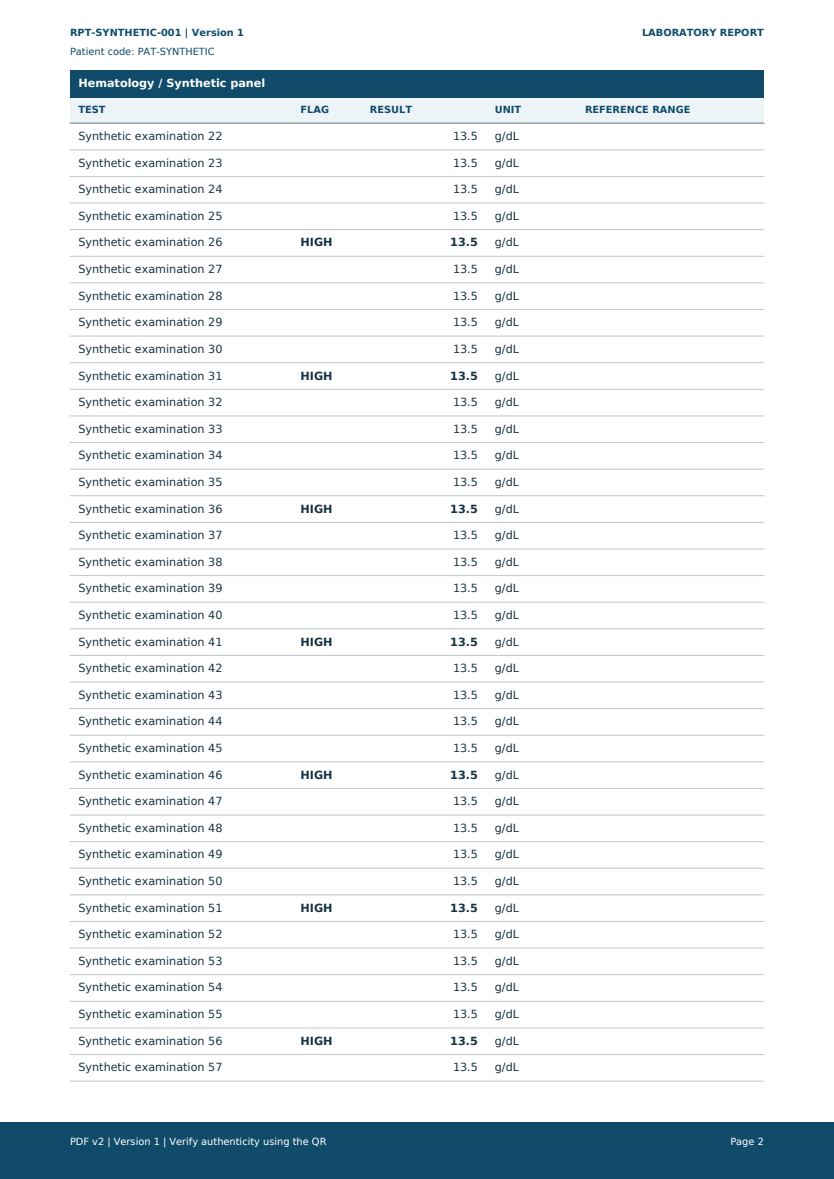
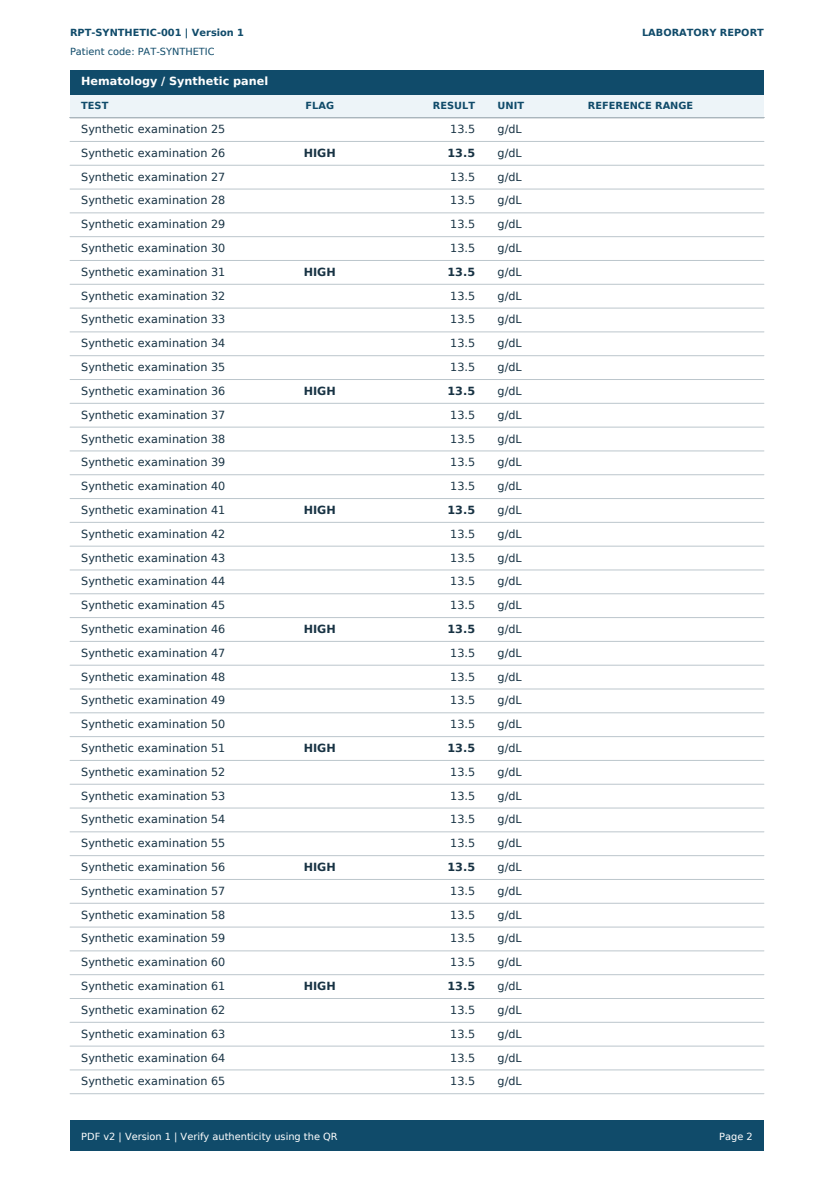
Correct laboratory PDF spacing and center single signatories

Changed region(s): [[0.0, 0.0611, 1.0, 1.0]]

diff --git a/app/services/report_pdf_v2.py b/app/services/report_pdf_v2.py
@@ -7,7 +7,7 @@ from xml.sax.saxutils import escape
 from reportlab.lib import colors
 from reportlab.lib.pagesizes import A4
 from reportlab.lib.styles import ParagraphStyle
-from reportlab.platypus import Image, LongTable, Paragraph, SimpleDocTemplate, Spacer, TableStyle, TopPadder
+from reportlab.platypus import Image, LongTable, Paragraph, SimpleDocTemplate, Spacer, TableStyle
 
 
 def render(report, verification_url, released_at, context):
@@ -29,6 +29,12 @@ def render(report, verification_url, released_at, context):
     note_heading = ParagraphStyle('v2noteheading', parent=bold, textColor=blue, spaceBefore=7, spaceAfter=3, keepWithNext=True)
     result_style = ParagraphStyle('v2result', parent=body, alignment=2)
     abnormal_style = ParagraphStyle('v2abnormal', parent=result_style, fontName='RHU-Bold')
+    centered = ParagraphStyle('v2centered', parent=small, alignment=1)
+    centered_bold = ParagraphStyle('v2centeredbold', parent=bold, alignment=1)
+    flag_style = ParagraphStyle('v2flag', parent=body, alignment=1)
+    flag_bold = ParagraphStyle('v2flagbold', parent=bold, alignment=1)
+    result_heading = ParagraphStyle('v2resultheading', parent=column_heading, alignment=2)
+    flag_heading = ParagraphStyle('v2flagheading', parent=column_heading, alignment=1)
     qr_caption = ParagraphStyle('v2qr', parent=small, alignment=1, textColor=blue)
 
     def p(value, style=body):
@@ -100,8 +106,8 @@ def render(report, verification_url, released_at, context):
         [p(f'Requested: {date(context["order_date"])}', small), p(f'Generated: {date(report.generated_at.isoformat())}', small)],
         [p(f'Approved: {date(report.approved_at.isoformat() if report.approved_at else None)}', small), p(f'Released: {date(released_at.isoformat())}', small)],
     ], [width / 2, width / 2], [('LINEBELOW', (0, -1), (-1, -1), .6, rule),
-        ('LEFTPADDING', (0, 0), (-1, -1), 0), ('TOPPADDING', (0, 0), (-1, -1), 3),
-        ('BOTTOMPADDING', (0, 0), (-1, -1), 4)]), Spacer(1, 12)]
+        ('BACKGROUND', (0, 0), (-1, -1), light), ('TOPPADDING', (0, 0), (-1, -1), 3),
+        ('BOTTOMPADDING', (0, 0), (-1, -1), 4)]), Spacer(1, 8)]
     if template.get('section_title'):
         story += [p(template['section_title'], note_heading), Spacer(1, 3)]
 
@@ -116,10 +122,14 @@ def render(report, verification_url, released_at, context):
     for key, lines in groups:
         label = ' / '.join(dict.fromkeys(part for part in key if part)) or 'Laboratory results'
         rows = [[p(label, group_heading), '', '', '', ''],
-                [p(value, column_heading) for value in ('TEST', 'FLAG', 'RESULT', 'UNIT', 'REFERENCE RANGE')]]
+                [p(value, style) for value, style in zip(
+                    ('TEST', 'FLAG', 'RESULT', 'UNIT', 'REFERENCE RANGE'),
+                    (column_heading, flag_heading, result_heading, column_heading, column_heading))]]
         commands = [('SPAN', (0, 0), (-1, 0)), ('BACKGROUND', (0, 0), (-1, 0), blue), ('BACKGROUND', (0, 1), (-1, 1), light),
-            ('VALIGN', (0, 0), (-1, -1), 'TOP'), ('LINEBELOW', (0, 1), (-1, 1), .7, ink),
-            ('TOPPADDING', (0, 0), (-1, -1), 4), ('BOTTOMPADDING', (0, 0), (-1, -1), 4)]
+            ('VALIGN', (0, 0), (-1, -1), 'TOP'),
+            ('LEFTPADDING', (0, 0), (-1, -1), 8), ('RIGHTPADDING', (0, 0), (-1, -1), 8),
+            ('LINEBELOW', (0, 1), (-1, 1), .7, ink),
+            ('TOPPADDING', (0, 0), (-1, -1), 3), ('BOTTOMPADDING', (0, 0), (-1, -1), 3)]
         details = []
         specimens = {}
         for line, extra in lines:
@@ -132,14 +142,14 @@ def render(report, verification_url, released_at, context):
             if collected or received:
                 specimen_rows.append([p(f'Collected: {date(collected)}', small) if collected else '',
                                       p(f'Received: {date(received)}', small) if received else ''])
-            specimen_details += [p('Specimen details', note_heading), table(specimen_rows, [width * .55, width * .45], [
-                ('LEFTPADDING', (0, 0), (-1, -1), 0), ('TOPPADDING', (0, 0), (-1, -1), 2),
+            specimen_details += [p('Specimen details', note_heading), table(specimen_rows, [width / 2, width / 2], [
+                ('BACKGROUND', (0, 0), (-1, -1), light), ('TOPPADDING', (0, 0), (-1, -1), 2),
                 ('BOTTOMPADDING', (0, 0), (-1, -1), 2)])]
             if len(test_names) != len(lines):
                 specimen_details.append(p('Tests: ' + '; '.join(test_names), small))
         for line, extra in lines:
             abnormal = line.flag_snapshot not in (None, '', 'NORMAL')
-            rows.append([p(line.test_name_snapshot), p(line.flag_snapshot or '', bold if abnormal else body),
+            rows.append([p(line.test_name_snapshot), p(line.flag_snapshot or '', flag_bold if abnormal else flag_style),
                 p(line.result_value_snapshot, abnormal_style if abnormal else result_style),
                 p(line.unit_snapshot or ''), p(line.reference_range_snapshot or '')])
             notes = []
@@ -151,40 +161,46 @@ def render(report, verification_url, released_at, context):
             if notes:
                 details += [p(line.test_name_snapshot + ' — test details', note_heading), p('\n'.join(notes), small)]
             commands.append(('LINEBELOW', (0, len(rows)-1), (-1, len(rows)-1), .25, colors.HexColor('#bcc6cc')))
-        results_table = LongTable(rows, colWidths=[width*.32, width*.10, width*.18, width*.13, width*.27],
+        results_table = LongTable(rows, colWidths=[width*.30, width*.12, width*.18, width*.13, width*.27],
                           repeatRows=2, splitInRow=1, hAlign='LEFT')
         results_table.setStyle(TableStyle(commands))
         story += [results_table, Spacer(1, 3), *specimen_details, *details, Spacer(1, 8)]
     story.append(p('Flags are supplied by the laboratory workflow. Bold flags and results identify recorded abnormal findings.', small))
     if report.remarks:
-        story += [p('Report remarks', note_heading), p(report.remarks)]
+        story += [p('Report remarks', note_heading),
+                  table([[p(report.remarks)]], [width], [('BACKGROUND', (0, 0), (-1, -1), light)])]
     if template.get('clinical_note'):
         story += [Spacer(1, 5), p(template['clinical_note'])]
     story.append(Spacer(1, 6))
-    # End-of-report signatures sit at the foot of the final page. The table can
-    # continue when there are many signatories or long configured footer notes.
+    # Signatures follow the notes without stretching the page. A single signer
+    # is centered across the report; multiple signers retain two columns.
     signatures = [[p('Authorized signatories', note_heading), '']]
     signature_commands = [('TOPPADDING', (0, 0), (-1, -1), 4), ('BOTTOMPADDING', (0, 0), (-1, -1), 4), ('SPAN', (0, 0), (-1, 0)), ('LINEABOVE', (0, 0), (-1, 0), .7, rule)]
+    single_signer = len(report.signatories) == 1
+    name_style = centered_bold if single_signer else bold
+    signing_style = centered if single_signer else small
     cells = []
     for assignment in report.signatories:
         captured = context['signatories'].get(str(assignment.report_signatory_id))
         if assignment.signed_at is None or captured is None:
             raise ValueError('Signed presentation is incomplete')
-        elements = [p(captured['name'], bold), p(captured['capacity'].replace('_', ' '), small)]
-        if captured.get('designation'): elements.append(p(captured['designation'], small))
-        if captured.get('license'): elements.append(p('License: ' + captured['license'], small))
-        elements.append(p('Electronically signed: ' + date(captured['signed_at']), small))
+        elements = [p(captured['name'], name_style), p(captured['capacity'].replace('_', ' '), signing_style)]
+        if captured.get('designation'): elements.append(p(captured['designation'], signing_style))
+        if captured.get('license'): elements.append(p('License: ' + captured['license'], signing_style))
+        elements.append(p('Electronically signed: ' + date(captured['signed_at']), signing_style))
         cells.append(elements)
         if len(cells) == 2:
             signatures.append(cells)
             cells = []
     if cells:
         signatures.append([*cells, ''])
+        if single_signer:
+            signature_commands.append(('SPAN', (0, 1), (-1, 1)))
     for key in ('footer_note', 'medico_legal_note'):
         if template.get(key):
-            signatures.append([p(template[key], small), ''])
+            signatures.append([p(template[key], centered if single_signer else small), ''])
             signature_commands.append(('SPAN', (0, len(signatures)-1), (-1, len(signatures)-1)))
-    story.append(TopPadder(table(signatures, [width / 2, width / 2], signature_commands, repeatRows=1)))
+    story.append(table(signatures, [width / 2, width / 2], signature_commands, repeatRows=1))
 
     def furniture(canvas, doc):
         canvas.saveState()
@@ -196,14 +212,14 @@ def render(report, verification_url, released_at, context):
             canvas.setFont('RHU', 7)
             canvas.drawString(50, A4[1]-39, f'Patient code: {patient.patient_code}')
         canvas.setFillColor(blue)
-        canvas.rect(0, 0, A4[0], 40, stroke=0, fill=1)
+        canvas.rect(50, 20, width, 22, stroke=0, fill=1)
         canvas.setFillColor(colors.white)
         canvas.setFont('RHU', 7)
-        canvas.drawString(50, 24, f'PDF v2 | Version {report.version_no} | Verify authenticity using the QR')
-        canvas.drawRightString(A4[0]-50, 24, f'Page {doc.page}')
+        canvas.drawString(58, 28, f'PDF v2 | Version {report.version_no} | Verify authenticity using the QR')
+        canvas.drawRightString(A4[0]-58, 28, f'Page {doc.page}')
         canvas.restoreState()
 
     doc = SimpleDocTemplate(output, pagesize=A4, leftMargin=44, rightMargin=44,
-        topMargin=44, bottomMargin=52, title=f'Laboratory report {report.report_code}', author=facility['facility_name'])
+        topMargin=44, bottomMargin=44, title=f'Laboratory report {report.report_code}', author=facility['facility_name'])
     doc.build(story, onFirstPage=furniture, onLaterPages=furniture)
     return output.getvalue()

diff --git a/tests/test_report_pdf_v2.py b/tests/test_report_pdf_v2.py
@@ -237,7 +237,7 @@ def test_renderer_context_cannot_be_submitted_by_clients(api, field):
 
 @pytest.mark.parametrize('count', [1, 10])
 def test_compact_blue_report_keeps_qr_and_signatures_on_one_a4_page(api, monkeypatch, count):
-    """Short panels retain their warnings, upper-right QR and signed final section."""
+    """Short panels retain their warnings, upper-right QR and compact, centered signing section."""
     ready(api)
     detail = detail_for(api)
     detail._presentation = deepcopy(detail._presentation)
@@ -260,15 +260,23 @@ def test_compact_blue_report_keeps_qr_and_signatures_on_one_a4_page(api, monkeyp
     from reportlab.platypus import Image as PdfImage, Paragraph
     from reportlab.lib.pagesizes import A4
     image_draw, paragraph_draw = PdfImage.drawOn, Paragraph.drawOn
-    images, signature_positions = [], []
+    images, signature_positions, section_positions = [], [], {}
 
     def capture_image(image, canvas, x, y, _sW=0):
         images.append((canvas.getPageNumber(), *canvas.absolutePosition(x, y), image.drawWidth, image.drawHeight))
         return image_draw(image, canvas, x, y, _sW)
 
     def capture_signature(paragraph, canvas, x, y, _sW=0):
-        if paragraph.getPlainText().startswith('Electronically signed:'):
-            signature_positions.append(canvas.absolutePosition(x, y)[1])
+        text = paragraph.getPlainText()
+        left, bottom = canvas.absolutePosition(x, y)
+        if text.startswith('Electronically signed:'):
+            signature_positions.append(bottom)
+            assert paragraph.style.alignment == 1
+            assert left + paragraph.width / 2 == pytest.approx(A4[0] / 2, abs=.1)
+        if text == detail.remarks:
+            section_positions['remarks_bottom'] = bottom
+        if text == 'Authorized signatories':
+            section_positions['signatures_top'] = bottom + paragraph.height
         return paragraph_draw(paragraph, canvas, x, y, _sW)
 
     monkeypatch.setattr(PdfImage, 'drawOn', capture_image)
@@ -287,7 +295,8 @@ def test_compact_blue_report_keeps_qr_and_signatures_on_one_a4_page(api, monkeyp
     page, x, y, w, h = images[0]
     assert page == 1 and x > A4[0] / 2 and y > A4[1] / 2
     assert x + w < A4[0] - 44 and y + h < A4[1] - 40
-    assert signature_positions and all(50 < y < 180 for y in signature_positions)
+    assert signature_positions and all(y > 50 for y in signature_positions)
+    assert 0 <= section_positions['remarks_bottom'] - section_positions['signatures_top'] <= 30
 
 
 def test_many_signatories_and_long_footer_continue_without_losing_stored_text(api):

diff --git a/docs/PDF_LAYOUT_CORRECTION_20261023.md b/docs/PDF_LAYOUT_CORRECTION_20261023.md
@@ -1,0 +1,30 @@
+# Laboratory PDF spacing correction — 23 October 2026
+
+The existing renderer follows the corrected `pdf/RHU_LabChain_Report_Layout_Fixed.pdf` reference without copying its illustrative data or preview-only wording.
+
+- Removed forced bottom positioning: authorized signatories now follow the report notes with a small, fixed gap.
+- Centered a single signatory across the full report width. Multiple signatories retain two columns and can continue across pages.
+- Standardized table cell padding, aligned flag/result headings with their values, and widened the flag column so `NORMAL` does not wrap unnecessarily.
+- Aligned timeline and specimen columns, with light backgrounds for dates, specimen details and remarks.
+- Reduced the footer from a full-width 40-point band to a 22-point strip within the report margins. Adjusted the bottom margin while preserving space between report content and footer.
+- Kept short reports and ten-test panels on one A4 page. A 65-test example uses three pages, with repeated result headings and page numbers.
+
+Only the existing PDF renderer changes application behavior. No fields, database schema, business rules, frontend, QR payload, signing identity, report data, release/hash logic, or blockchain integration were changed. Existing stored reports are never regenerated or replaced.
+
+## Visual evidence
+
+The shared synthetic review artifacts are updated to the corrected layout:
+
+- [Short synthetic PDF](screenshots/pdf-layout-20261023/synthetic-short.pdf) and [image](screenshots/pdf-layout-20261023/short.png).
+- [Ten-test panel](screenshots/pdf-layout-20261023/panel.png).
+- [Multipage continuation](screenshots/pdf-layout-20261023/continuation.png).
+
+These are documentation examples, not released clinical PDFs. Their synthetic verification URL uses `example.test` and does not identify a live report. Short, panel and continuation output was rasterized and visually inspected. The functional QR decoded correctly from generated PDF pixels at two resolutions.
+
+## Verification
+
+The layout regression now checks that a single signatory is centered and follows remarks without a stretched gap. Existing tests also cover long notes without overlap/clipping, captured logos, mixed specimens, large signatory lists, and unchanged historical download/print bytes.
+
+A separate isolated API acceptance generates, signs, approves and releases a report, decodes its final PDF QR, compares the official download bytes, checks the SHA-256 digest and public PDF comparison, and confirms the release outbox contains the PDF hash.
+
+Final focused regression: **198 passed**, one optional browser-fixture export skipped. Additional isolated release/QR/hash acceptance: **1 passed**. The final renderer was visually inspected with short, full ten-test and multipage examples. Deployment acceptance is recorded below after completion. Protected source and existing-PDF backups and read-only integrity baselines are under `/var/backups/rhu-labchain/20261023-pdf-layout-fixed`.

diff --git a/docs/PDF_LAYOUT_20261023.md b/docs/PDF_LAYOUT_20261023.md
@@ -1,5 +1,7 @@
 # Laboratory report PDF layout — 23 October 2026
 
+The shared example PDFs/images were subsequently updated by the [spacing correction](PDF_LAYOUT_CORRECTION_20261023.md). The acceptance record below describes the original deployment; its original examples remain in Git history.
+
 The existing snapshot-based PDF renderer now follows the supplied blue-header preview: blue facility letterhead, compact patient/order metadata, upper-right verification QR, department/panel result sections, specimen details and recorded notes, and authorized signatories at the bottom of the final page.
 
 ## Scope and historical safety
